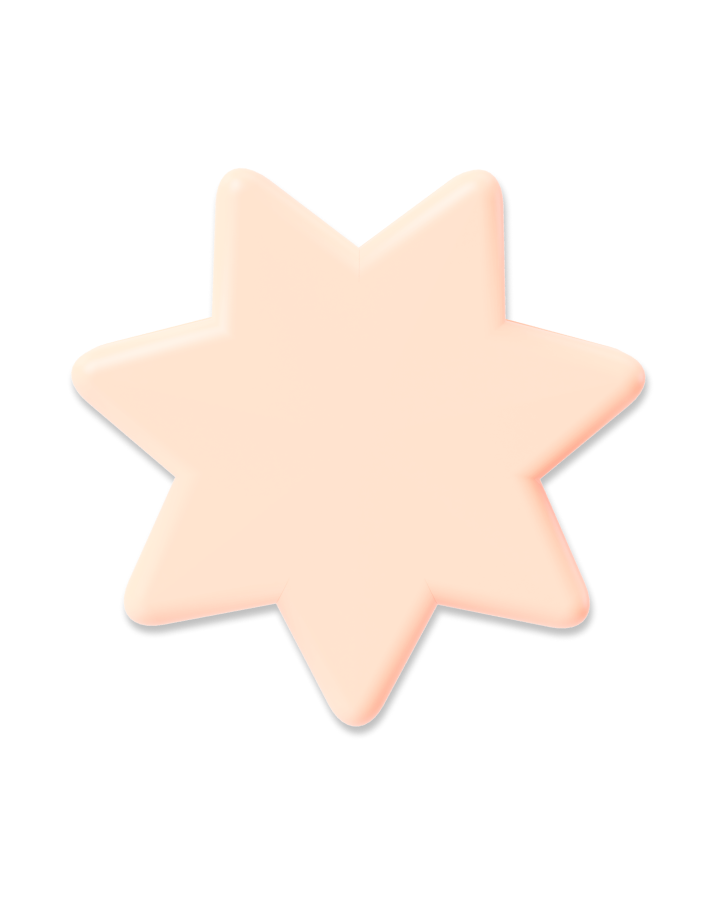
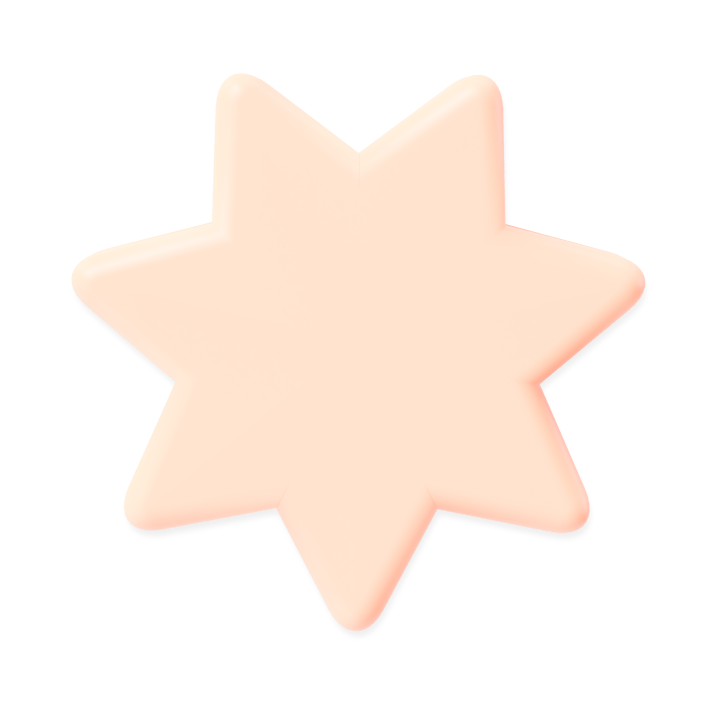
몸움직이기다만들엇다

diff --git a/src/depression/move.js b/src/depression/move.js
@@ -3,18 +3,18 @@ import '../output.css';
 
 const Move = () => {
   const actions = [
-    "노래 들으며 몸 흔들기",
+    "노래 들으며 춤추기",
     "창문 열어 환기하기",
     "청소기 돌리기",
     "스트레칭 하기",
-    "팔굽혀펴기 10회",
-    "책상 정리하기",
+    "어깨돌리기 10회",
+    "세수하기",
     "컵에 물 채우기",
-    "가벼운 런닝 제자리에서",
+    "제자리에서 폴짝",
   ];
 
   const [currentAction, setCurrentAction] = useState('');
-  const [timer, setTimer] = useState(60); // 60초 타이머
+  const [timer, setTimer] = useState(60);
   const [isRunning, setIsRunning] = useState(false);
   const [buttonText, setButtonText] = useState('시작');
 
@@ -46,47 +46,44 @@ const Move = () => {
   };
 
   return (
-    <div className="w-[360px] h-[800px] pb-[97px] bg-white flex-col justify-start items-start gap-3 inline-flex">
-      <div className="self-stretch h-[646px] px-2.5 flex-col justify-center items-center pt-8 gap-4 inline-flex">
-        <div className="p-2.5 flex-col justify-start items-center gap-4 flex mt-[20px]">
-          <div className="w-[340px] h-[53px] px-5 flex-col justify-center items-center gap-[3px] flex">
+    <div className="w-[360px] h-[800px] bg-white flex-col justify-start items-start gap-3 inline-flex">
+      <div className="self-stretch h-[646px] px-2.5 flex-col justify-center items-center mt-20 gap-2 inline-flex">
+        <div className="p-2.5 flex-col justify-start items-center gap-2 flex">
+          <div className="w-[340px] h-[53px] px-5 flex-col justify-center items-center gap-[1px] mb-10 flex">
             <div className="w-[340px] h-[30px] px-4 justify-center items-center gap-[26px] inline-flex">
               <div className="w-[115px] text-black text-2xl font-bold font-['Pretendard'] leading-normal tracking-wide">
                 몸 움직이기
               </div>
             </div>
             <div className="w-[340px] h-4 px-4 justify-center items-center gap-px inline-flex">
-              <div className="w-[254px] h-4 text-center text-black text-[11px] font-light font-['Pretendard'] leading-normal tracking-wide">
+              <div className="w-[254px] h-4 text-center text-black text-[13px] font-medium font-['Pretendard'] leading-normal tracking-wide">
                 랜덤으로 표시되는 행동을 1분 안에 완료하세요!
               </div>
             </div>
           </div>
-          <div className="w-[340px] h-[549px] flex-col justify-start items-center gap-2.5 flex">
-            <div className="self-stretch h-[500px] justify-center items-start gap-2.5 inline-flex">
-              <div className="w-[339.50px] h-[485px] relative">
+          <div className="w-[340] h-[500px] flex-col justify-start items-center gap-2  flex">
+            <div className="self-stretch h-[350px] justify-center items-start gap-2 inline-flex">
+              <div className="w-[330px] h-[330px] relative">
                 <img
-                  className="w-[339.50px] h-[485px] left-0 top-0 absolute object-cover"
+                  className="w-[330px] h-[330px] left-0 top-0 absolute object-cover"
                   src="/img/move_body.png"
                   alt="move-body"
                 />
-                <div className="w-[47px] h-[47px] left-[145.75px] top-[161px] absolute justify-center items-center inline-flex">
+                <div className="w-[47px] h-[47px] left-[142px] top-[85px] absolute justify-center items-center inline-flex">
                   <img className="w-[47px] h-[47px]" src="/img/emoji_cat.png" alt="emoji icon" />
                 </div>
-                {/* 타이머 */}
-                <div className={`w-[145.23px] h-[33px] left-[96.75px] top-[250px] absolute text-center ${timer <= 10 ? 'text-red-500' : 'text-[#ff845a]'} text-4xl font-bold font-['Pretendard'] leading-normal tracking-wide`}>
+                <div className={`w-[145px] h-[33px] left-[92px] top-[165px] absolute text-center ${timer <= 10 ? 'text-red-500' : 'text-[#ff845a]'} text-4xl font-bold font-['Pretendard'] leading-normal tracking-wide`}>
                   {`0${Math.floor(timer / 60)} : ${timer % 60 === 0 ? '00' : timer % 60 < 10 ? `0${timer % 60}` : timer % 60}`}
                 </div>
-                {/* 랜덤 액션 */}
-                <div className="w-[145.23px] h-[23px] p-[19px] left-[96.75px] top-[213px] absolute bg-[#ff9d7b] rounded flex-col justify-center items-center gap-2.5 inline-flex">
-                  <div className="w-[125px] text-center text-white text-sm font-bold font-['Pretendard'] leading-normal tracking-wide">
+                <div className="w-[135px] h-[23px] px-2 left-[97px] top-[140px] absolute bg-[#ff9d7b] rounded flex justify-center items-center">
+                  <div className="w-[125px] text-center text-white text-[15px] font-bold font-['Pretendard'] leading-normal tracking-wide">
                     {currentAction}
                   </div>
                 </div>
               </div>
             </div>
-            {/* 버튼 */}
-            <div className="w-[266px] h-[35px] p-1.5 bg-[#ffdade] rounded-[15px] justify-center items-center gap-1.5 inline-flex">
-              <button onClick={handleButtonClick} className="w-[254px] h-4 text-center text-black text-[11px] font-medium font-['Pretendard'] leading-normal tracking-wide">
+            <div className="w-[266px] h-[35px] bg-[#ffdade] rounded-[15px] flex justify-center items-center">
+              <button onClick={handleButtonClick} className="text-black text-[15px] font-bold font-['Pretendard'] leading-normal tracking-wide">
                 {buttonText}
               </button>
             </div>
